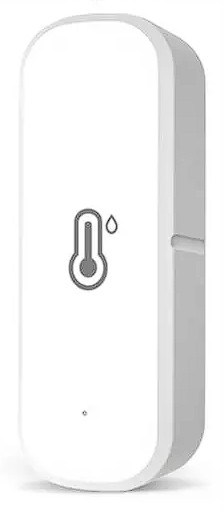
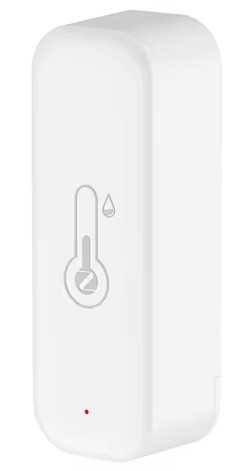
v1.2

diff --git a/TS0201_TZ3000_v1w2k9dd/index.html b/TS0201_TZ3000_v1w2k9dd/index.html
@@ -17,6 +17,8 @@
 	<img src="img/zy-zth03p10.jpg" style="max-width:40%;"><br>
 	PCB Version 1.1<br>
 	<img src="img/zy-zth03p11.jpg" style="max-width:40%;"><br>
+	PCB Version 1.2<br>
+	<img src="img/zy-zth03p12.jpg" style="max-width:40%;"><br>
 	<a href="https://github.com/pvvx/ZigbeeTLc/issues/230">Issues</a><br>
 	<hr>
 	<a href="bin/TS0201_TZ3000_v1w2k9dd_ff_ota.zip">Original FullFlash bin and OTA</a><br>
